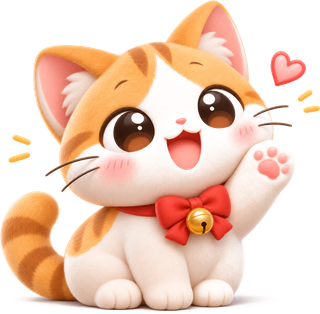
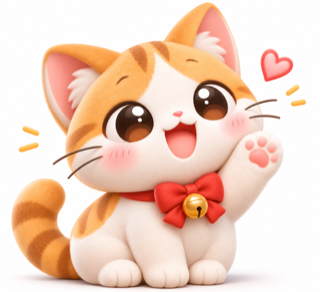
mascot: roam the center of the map and fly to clicks; keep the original background
Claude-Session: https://claude.ai/code/session_01QhLcHairuFnPVqQwdBNQkV

diff --git a/public/mascot.js b/public/mascot.js
@@ -1,7 +1,9 @@
-/* 고양이 마스코트 — 마우스를 따라 몸을 기울이고, 빠르게 움직이면 흔들리고, 클릭할 때마다 다른 동작을 한다. */
+/* 고양이 마스코트 — 지도 한가운데를 날아다니고, 마우스를 따라 몸을 기울이고, 빠르게 움직이면 흔들리고,
+   클릭하면 그 자리로 날아가며 클릭할 때마다 다른 동작(점프·회전·흔들기·찌부)을 한다. */
 (() => {
   const root = document.getElementById('mascot');
-  if (!root) return;
+  const wrap = document.getElementById('map-wrap');
+  if (!root || !wrap) return;
   const flip = root.querySelector('.mascot-flip');
   const act = root.querySelector('.mascot-act');
   const fx = root.querySelector('.mascot-fx');
@@ -9,17 +11,43 @@
   const ACTIONS = ['jump', 'spin', 'wiggle', 'squish'];
   let next = 0;
   let last = { x: 0, y: 0, t: 0 };
-  let frame = null;
+  let lean = 0;              // 커서 쪽으로 기우는 각도
+  let pos = null;            // 지도 영역 안의 현재 위치 (중심점)
+  let target = null;         // 날아가는 목표
+  let restUntil = 0;         // 목표에 닿은 뒤 잠깐 쉬는 시각
+  const SPEED = 140;         // px/초
 
-  // 커서 쪽으로 살짝 기울고 몸을 돌린다.
-  function lean(x, y) {
-    const r = root.getBoundingClientRect();
-    const dx = x - (r.left + r.width / 2), dy = y - (r.top + r.height / 2);
-    const dist = Math.hypot(dx, dy) || 1;
-    const k = Math.min(1, dist / 400);
-    root.style.transform = `translate(${(dx / dist) * 8 * k}px, ${(dy / dist) * 5 * k}px) rotate(${(dx / dist) * 7 * k}deg)`;
-    flip.classList.toggle('flip', dx < -20);
+  // 화면 가운데 쪽(가로 20~80%, 세로 15~60%)에서 다음 목적지를 고른다.
+  function pickTarget() {
+    const r = wrap.getBoundingClientRect();
+    return { x: r.width * (0.2 + Math.random() * 0.6), y: r.height * (0.15 + Math.random() * 0.45) };
   }
+  function place(x, y) {
+    const r = root.getBoundingClientRect();
+    root.style.transform = `translate(${x - r.width / 2}px, ${y - r.height / 2}px) rotate(${lean}deg)`;
+  }
+  let prevT = performance.now();
+  function tick(t) {
+    const dt = Math.min(0.05, (t - prevT) / 1000);
+    prevT = t;
+    if (!pos) { pos = pickTarget(); target = pickTarget(); }
+    if (t > restUntil) {
+      const dx = target.x - pos.x, dy = target.y - pos.y;
+      const dist = Math.hypot(dx, dy);
+      if (dist < 3) { target = pickTarget(); restUntil = t + 800 + Math.random() * 1500; }
+      else {
+        const step = Math.min(dist, SPEED * dt);
+        pos.x += (dx / dist) * step;
+        pos.y += (dy / dist) * step;
+        flip.classList.toggle('flip', dx < 0);   // 가는 방향을 본다
+      }
+    }
+    const bob = reduce ? 0 : Math.sin(t / 420) * 7;   // 둥실둥실
+    place(pos.x, pos.y + bob);
+    requestAnimationFrame(tick);
+  }
+  requestAnimationFrame(tick);
+
   function play(name) {
     if (reduce) return;
     act.classList.remove(...ACTIONS);
@@ -38,20 +66,30 @@
       setTimeout(() => h.remove(), 1300 + i * 90);
     }
   }
+  // 화면 좌표 → 지도 영역 좌표 (가장자리는 피한다)
+  function toWrap(clientX, clientY) {
+    const r = wrap.getBoundingClientRect();
+    const m = 70;
+    return { x: Math.min(r.width - m, Math.max(m, clientX - r.left)), y: Math.min(r.height - m, Math.max(m, clientY - r.top)) };
+  }
 
   window.addEventListener('pointermove', (e) => {
     if (reduce) return;
     const now = performance.now();
     const speed = Math.hypot(e.clientX - last.x, e.clientY - last.y) / Math.max(1, now - last.t);  // px/ms
     last = { x: e.clientX, y: e.clientY, t: now };
-    if (!frame) frame = requestAnimationFrame(() => { frame = null; lean(last.x, last.y); });
+    const r = root.getBoundingClientRect();
+    const dx = e.clientX - (r.left + r.width / 2);
+    lean = Math.max(-10, Math.min(10, dx / 40));          // 커서 쪽으로 살짝 기운다
     if (speed > 1.8 && !busy()) play('wiggle');
   }, { passive: true });
 
   window.addEventListener('pointerdown', (e) => {
     if (reduce) return;
     play(ACTIONS[next++ % ACTIONS.length]);
-    hearts(e.target.closest('#btn-yes') ? 6 : 1);   // "비플페이 가능"을 누르면 하트가 잔뜩
+    hearts(e.target.closest('#btn-yes') ? 6 : 1);          // "비플페이 가능"을 누르면 하트가 잔뜩
+    target = toWrap(e.clientX, e.clientY);                 // 클릭한 곳으로 날아간다
+    restUntil = 0;
   }, { passive: true });
 
   act.addEventListener('animationend', (e) => { if (e.target === act) act.classList.remove(...ACTIONS); });

diff --git a/public/style.css b/public/style.css
@@ -203,7 +203,8 @@ body.is-resizing { user-select: none; cursor: col-resize; }
 }
 
 /* ---------- 고양이 마스코트 ---------- */
-.mascot { position: absolute; right: 14px; bottom: 26px; width: 110px; z-index: 450; pointer-events: none; transition: transform 0.25s ease-out; will-change: transform; }
+.mascot { position: absolute; left: 0; top: 0; width: 120px; z-index: 450; pointer-events: none; will-change: transform; }
+.mascot img { border-radius: 16px; }
 .mascot-flip { transition: transform 0.2s; }
 .mascot-flip.flip { transform: scaleX(-1); }
 .mascot-act { transform-origin: 50% 100%; }
@@ -271,5 +272,5 @@ body.is-resizing { user-select: none; cursor: col-resize; }
   .leaflet-top.leaflet-left { top: 64px; }
   .panel-resizer { display: none; }
   .btn-locate { top: 64px; }
-  .mascot { width: 68px; right: 8px; top: 108px; bottom: auto; }
+  .mascot { width: 76px; }
 }

diff --git a/architecture.md b/architecture.md
@@ -47,8 +47,8 @@
 | `index.html` | 지도 화면의 뼈대. 검색창, 왼쪽 목록 패널, 지도 영역, 식당을 눌렀을 때 뜨는 "가능/불가능" 카드의 자리 | 브라우저는 HTML이 있어야 무엇을 어디에 그릴지 압니다 |
 | `style.css` | 화면의 생김새. 네이버 지도 같은 초록 검색창, 핀 색깔, 가능 핀의 형광 깜빡임, 휴대폰에서 아래로 접히는 패널 | 뼈대(HTML)와 모양(CSS)을 나누면 모양만 따로 고칠 수 있습니다 |
 | `app.js` | 화면의 동작. 검색하면 창구에 수집을 요청하고, 수집이 끝날 때까지 2초마다 확인하고, 지도에 구획과 핀을 그리고, 버튼을 누르면 저장하고, 10초마다 다른 조사원의 입력을 반영. 사이드바 너비 드래그, 내 위치 표시, 가까운 순 정렬, 길찾기 버튼(네이버 지도 도보 경로)도 여기 | 화면이 "살아 움직이는" 부분은 전부 여기 있습니다 |
-| `mascot.js` | 고양이 마스코트의 동작. 마우스를 따라 몸을 기울이고, 빠르게 움직이면 흔들리고, 클릭할 때마다 점프·회전·흔들기·찌부 중 다음 동작을 하며 하트를 띄움 | 재미 요소. 지도 조작을 막지 않도록 클릭이 통과합니다 |
-| `assets/cat.png` | 고양이 그림(원본 `asset/` 폴더의 그림에서 흰 배경을 빼고 320px 로 줄인 것) | 1.8MB 원본을 그대로 쓰면 휴대폰에서 느립니다 |
+| `mascot.js` | 고양이 마스코트의 동작. 지도 가운데를 날아다니고, 마우스 쪽으로 기울고, 빠르게 움직이면 흔들리고, 클릭하면 그 자리로 날아가며 점프·회전·흔들기·찌부 중 다음 동작을 하고 하트를 띄움 | 재미 요소. 지도 조작을 막지 않도록 클릭이 통과합니다 |
+| `assets/cat.png` | 고양이 그림(원본 `asset/` 폴더의 그림을 320px 로 줄인 것) | 1.8MB 원본을 그대로 쓰면 휴대폰에서 느립니다 |
 | `stats.html` | 통계 표 화면의 뼈대 (지역별 식당 수·조사 완료·가능·불가능·가맹률, 합계, 삭제 버튼, CSV 다운로드) | 조사 진행 상황을 한눈에 보는 별도 페이지 |
 | `stats.js` | 통계 화면의 동작. 창구에서 숫자를 받아 표를 그리고, 삭제 버튼을 처리 | |
 

diff --git a/README.md b/README.md
@@ -64,7 +64,7 @@ node scripts/smoke-collect.js "대구 중구 삼덕동"   # DB 없이 네이버 
 - **가까운 순**: 식당 목록의 "가까운 순" 칩을 켜면 내 위치에서 가까운 순으로 정렬되고 거리(39m, 1.2km)가 붙는다.
 - **길찾기**: 식당 카드의 "길찾기"가 네이버 지도 도보 경로(내 위치 → 식당)를 새 탭으로 연다. 위치를 못 얻으면 도착지만 넣어 연다.
 - **좋아요/싫어요**: 식당 카드의 👍/👎. 브라우저마다 기기 번호를 만들어 식당 하나에 하나만 세고, 같은 것을 다시 누르면 취소된다. 목록에 👍 수가 보이고 "좋아요 순" 칩으로 정렬한다. (`supabase/migrations/2026-11-03-reactions.sql` 필요)
-- **고양이 마스코트**: `asset/` 의 고양이가 지도 구석에서 마우스를 따라 움직이고 클릭마다 동작을 바꾼다 (`public/mascot.js`).
+- **고양이 마스코트**: `asset/` 의 고양이가 지도 가운데를 날아다니며 마우스 쪽으로 기울고, 클릭한 곳으로 날아가며 클릭마다 동작을 바꾼다 (`public/mascot.js`).
 
 ## AI 판단 층
 
